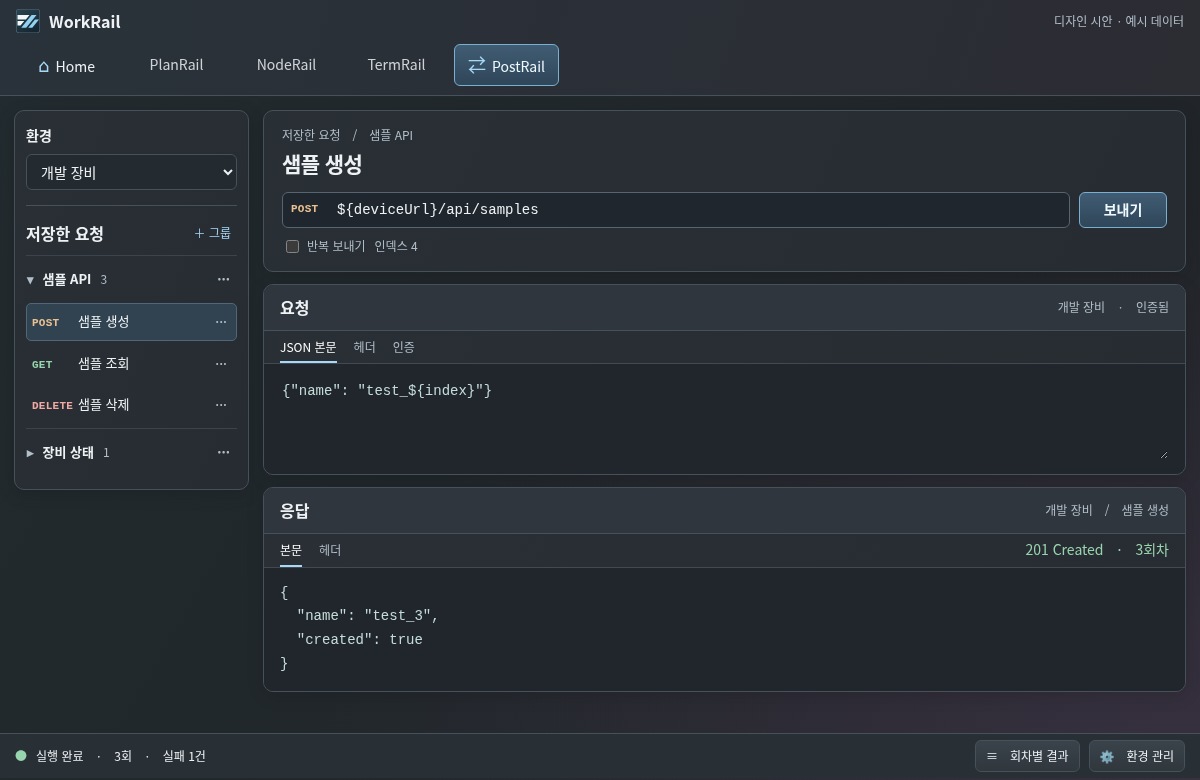
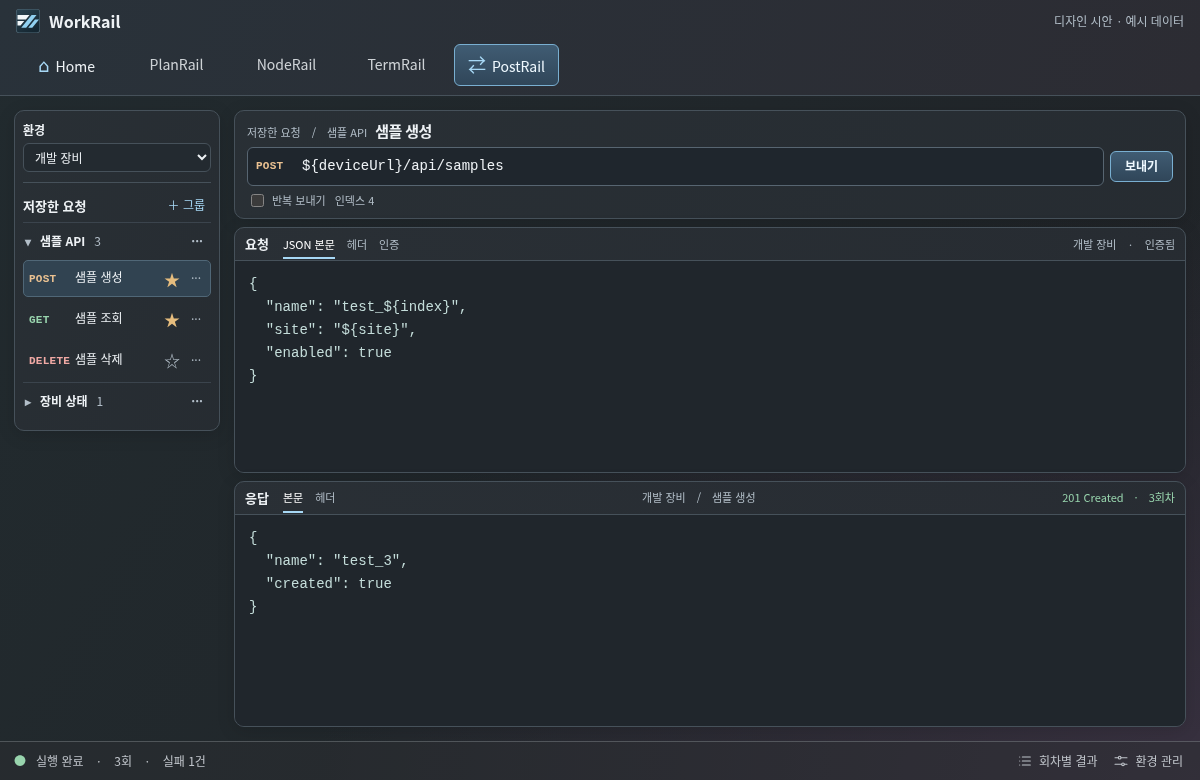
Refine PostRail editors and design Home favorite execution

diff --git a/docs/design/mockups/postrail-workspace.html b/docs/design/mockups/postrail-workspace.html
@@ -8,25 +8,72 @@
 :root{color-scheme:dark;font:14px/1.55 "Segoe UI","Noto Sans CJK KR",sans-serif;color:#eef2f5;--line:#46515a;--sub:#b2bec8;--sky:#a7d8f5;--green:#98d4ad;--amber:#eac191;--surface:linear-gradient(115deg,#2a3036ed,#272c32ed);--mono:Consolas,"Liberation Mono",monospace}
 *{box-sizing:border-box}body{margin:0;background:radial-gradient(ellipse at 100% 100%,#383140,transparent 52%),linear-gradient(120deg,#222b2f,#202327);min-height:100vh}button,input,select,textarea{font:inherit;color:inherit}button,select,input{border:1px solid var(--line);border-radius:6px;background:#232a30;padding:6px 10px}button,select{cursor:pointer}button{background:linear-gradient(#3a434b,#30373d)}button:hover{border-color:#788d9c}button:disabled{opacity:.55;cursor:default}button:focus-visible,summary:focus-visible,input:focus-visible,textarea:focus-visible,select:focus-visible{outline:2px solid var(--sky);outline-offset:2px}h1,h2,h3,p,pre{margin:0}h1{font-size:21px;letter-spacing:-.6px}h2{font-size:16px}h3{font-size:14px}small,.sub{color:var(--sub)}small{font-size:12px}[hidden]{display:none!important}.row,.brand,nav,.item,.folder summary,.title,.foot,.endpoint,.tabs,.meta,.tools{display:flex;align-items:center;gap:9px}.apart{justify-content:space-between}.auto{margin-left:auto}.brand{padding:9px 16px;font-size:16px;font-weight:700}.brand img{width:24px;height:24px}.demo{font-size:12px;color:var(--sub);font-weight:400}header{background:linear-gradient(110deg,#29323a,#2c2c33);border-bottom:1px solid var(--line)}nav{padding:1px 14px 9px;gap:5px;overflow:auto}nav button{border:1px solid transparent;background:none;min-width:105px;min-height:36px;white-space:nowrap}nav button:disabled{opacity:.84}nav button.active,.primary{background:linear-gradient(#405c73,#304659);border:1px solid #79afd1;color:#eff9ff}.mark{color:var(--sky);font-size:18px;padding-right:6px}main{padding:14px;max-width:1620px;margin:auto}#post{display:grid;grid-template-columns:235px minmax(0,1fr);gap:14px;min-height:calc(100vh - 143px)}aside,.panel,dialog{border:1px solid var(--line);border-radius:10px;background:var(--surface);box-shadow:0 4px 18px #0002}aside{align-self:start;padding:14px 11px}.env{width:100%;margin:8px 0 15px}.asidehead{border-top:1px solid var(--line);padding-top:14px;margin-bottom:8px}.ghost,.more{background:transparent;border-color:transparent;color:var(--sub);padding:3px 5px}.ghost{color:var(--sky);font-size:12px}.folder{border-top:1px solid #3b444d}.folder summary{padding:9px 1px;cursor:pointer;list-style:none;font-size:13px;font-weight:650}.folder summary:before{content:'▸';color:var(--sub)}.folder[open]>summary:before{content:'▾'}.folder summary small{font-weight:400}.item{padding:2px 3px;border:1px solid transparent;border-radius:5px;margin:1px 0 4px;gap:1px}.item.sel{background:#314351;border-color:#506777}.item button:first-child{flex:1;min-width:0;text-align:left;background:none;border:0;font-size:13px;padding:5px 2px;overflow-wrap:anywhere}.verb{display:inline-block;min-width:46px;font:700 11px/1.6 var(--mono);letter-spacing:.25px;color:var(--amber)}.get,.good{color:var(--green)}.delete,.bad{color:#f0a9a4}.workspace{display:flex;flex-direction:column;gap:12px;min-width:0}.panel{overflow:hidden}.compose,.pad{padding:15px 18px}.pathline{color:var(--sub);font-size:12px;margin-bottom:3px}.endpoint{margin:12px 0 9px}.url{min-width:0;flex:1;display:flex;align-items:center;padding:4px 8px;background:#1f262d;border:1px solid #576571;border-radius:6px}.url input{border:0;background:transparent;font:14px var(--mono);width:100%;padding:5px 0}.send{min-width:88px;font-weight:650}.tools,.meta{color:var(--sub);font-size:12px;flex-wrap:wrap}.tools label{display:inline-flex;align-items:center;gap:5px}.tools input[type=text]{width:92px;padding:3px 5px}.tools input[type=checkbox]{accent-color:#90c5e9}.title{border-bottom:1px solid var(--line);padding:10px 16px;background:#30363d}.tabs{gap:17px;padding:0 16px;border-bottom:1px solid #414a52}.tabs button{border:0;background:none;border-radius:0;padding:7px 0;color:var(--sub);font-size:12px}.tabs .active{box-shadow:inset 0 -2px var(--sky);color:#fff}.editor{background:#20262c;min-height:100px;padding:14px 16px}.editor textarea,pre{display:block;width:100%;font:14px/1.7 var(--mono);background:transparent;border:0;color:#c4ddda;resize:vertical;overflow-wrap:anywhere;white-space:pre-wrap}.editor textarea{min-height:82px}.pill{font:600 12px/1.55 "Segoe UI",sans-serif;padding:2px 8px;border:1px solid #466258;border-radius:4px;color:#b8dec6;background:#304139}.foot{position:sticky;bottom:0;z-index:2;padding:6px 15px;min-height:44px;background:#282f35;border-top:1px solid var(--line);font-size:12px}.foot button{font-size:12px}.logarea{max-height:180px;overflow:auto;background:#20262c;padding:10px 16px}.logline{display:block;width:100%;font:13px/1.7 var(--mono);text-align:left;white-space:pre-wrap;border:0;background:none;color:#b6c9d4}.logline[aria-pressed=true]{color:#e6f6ff;background:#354752}.home-grid{display:grid;grid-template-columns:repeat(6,minmax(0,1fr));gap:14px}.big{grid-column:span 3}.widget{grid-column:span 2}.cardhead{padding-bottom:15px}.listrow{display:flex;align-items:center;justify-content:space-between;gap:10px;border-top:1px solid #424a51;padding:10px 0;font-size:13px}.big .listrow{padding:13px 0}.cardbtn{width:100%;margin-top:9px}.date{color:var(--sub);font-size:13px;margin:2px 0 12px}.version{font-size:28px;font-weight:600;margin:10px 0}.widget h2,.big h2{font-size:16px}dialog{padding:0;width:min(520px,94vw);background:#292f35;color:#f2f4f6}dialog::backdrop{background:#11171ba8}.dialogbody{padding:16px 18px;max-height:70vh;overflow:auto}.formrow{display:grid;gap:5px;margin:8px 0}.formrow input,select{min-width:0}.dialogfoot{display:flex;justify-content:flex-end;gap:7px;border-top:1px solid var(--line);padding:11px 16px}.varrow{display:grid;grid-template-columns:1fr 1.2fr auto;gap:6px;margin:6px 0}.varrow input{min-width:0;width:100%}.danger{color:#f1aaa6}.note{color:var(--sub);font-size:12px;margin-top:8px}
 @media(max-width:800px){#post{grid-template-columns:185px minmax(0,1fr)}.widget{grid-column:span 3}}@media(max-width:620px){#post{grid-template-columns:1fr}aside{max-height:210px;overflow:auto}.big,.widget{grid-column:1/-1}.endpoint{flex-wrap:wrap}.url{flex-basis:100%}.foot{flex-wrap:wrap}.foot .sub{display:none}.varrow{grid-template-columns:1fr}.meta{gap:3px}nav button{min-width:90px}}
+
+/* PostRail uses the available window height for the two editors. */
+body{display:flex;flex-direction:column;min-height:100dvh}
+header{flex:none}
+#post{flex:1;width:100%;min-height:0;grid-template-columns:206px minmax(0,1fr)}
+#post .workspace{gap:8px}
+#post aside{padding:10px 8px;font-size:12px}
+#post .env{padding:4px 7px;margin:4px 0 10px}
+#post .asidehead{padding-top:9px;margin-bottom:3px}
+#post h2{font-size:13px}
+#post .folder summary{font-size:12px;padding:5px 2px}
+#post .item button:first-child{font-size:12px}
+#post .compose{padding:8px 12px}
+#post .request-heading{display:flex;align-items:baseline;gap:8px;flex-wrap:wrap}
+#post .pathline{font-size:11px;margin:0}
+#post h1{font-size:15px}
+#post .endpoint{gap:6px;margin:5px 0}
+#post .url{padding:2px 8px}
+#post .send{min-width:63px;font-size:12px;padding:5px 8px}
+#post .tools,#post .tools label{font-size:11px}
+.code-pane{flex:1 1 0;display:flex;flex-direction:column;min-height:164px}
+.pane-bar{display:flex;align-items:center;gap:14px;border-bottom:1px solid var(--line);padding:0 10px;min-height:33px}
+.pane-bar .tabs{padding:0;border:0;gap:12px}
+.pane-bar .tabs button{font-size:11px;padding:6px 0}
+.pane-bar small,.pane-bar #status{font-size:11px}
+.code-pane .editor{flex:1;display:flex;flex-direction:column;min-height:0;overflow:auto;padding:12px 14px}
+.code-pane .editor textarea{flex:1;min-height:90px;resize:none;padding:0}
+.code-pane .editor textarea,.code-pane pre,#url{font:14px/1.65 var(--mono)}
+.code-pane small{display:block}
+#home{width:100%;margin:0 auto}
+.star{background:none;border-color:transparent;font-size:16px;line-height:1;padding:3px;color:var(--sub)}
+.star[aria-pressed=true]{color:#e6bd7e}
+.favorite-row{display:flex;align-items:center;gap:6px;min-height:32px;border-bottom:1px solid #424a51;font-size:13px}
+.favorite-row .verb{min-width:43px}
+.favorite-row button{margin-left:auto;padding:2px 7px;font-size:12px}
+.favorite-row .repeat-home{margin-left:0;color:var(--sky);background:transparent;border-color:var(--line);font-size:11px}
+#favorites{max-height:170px;overflow:auto}
+.home-result{margin-top:8px;font-size:12px;color:var(--sub)}
+/* Match the PlanRail status shell and its dark glass theme. */
+.foot{flex:none;display:flex;align-items:center;flex-wrap:nowrap;gap:10px;min-height:39px;padding:4px 14px;border-top:1px solid var(--rim);background:var(--glass);color:var(--muted);font-size:12px;--rim:#b4bfc449;--glass:rgba(43,46,49,.5);--muted:#c0c5cb}
+.foot button{display:inline-flex;align-items:center;gap:6px;flex:none;font-size:inherit;color:inherit;padding:2px 3px;border:0;background:transparent}
+.foot button:hover,.foot button[aria-expanded=true]{color:var(--sky)}
+.foot svg{width:16px;height:16px;fill:none;stroke:currentColor;stroke-width:1.6;stroke-linecap:round;stroke-linejoin:round}
+#footStatus{white-space:nowrap;overflow:hidden;text-overflow:ellipsis}
+@media(min-width:621px){body:has(#post:not([hidden])){height:100dvh}#post{overflow:auto}.workspace:has(#drawer:not([hidden])){min-height:520px}}
+@media(max-width:620px){#post{grid-template-columns:1fr}.code-pane{min-height:195px}.pane-bar{flex-wrap:wrap;gap:4px 9px}.foot{margin-top:auto}}
+@media(max-width:510px){.foot{gap:6px}}
 </style>
[1 lines of base64/hex data omitted]
 <main id="post">
 <aside><label for="env"><strong>환경</strong></label><select class="env" id="env"><option>개발 장비</option><option>QA 장비</option></select>
 <div class="row apart asidehead"><h2>저장한 요청</h2><button id="newGroup" class="ghost">＋ 그룹</button></div><div id="tree"></div></aside>
 <section class="workspace">
-<div class="panel compose"><div class="pathline" id="crumb"></div><h1 id="reqName"></h1><div class="endpoint"><div class="url"><b id="method" class="verb"></b><input id="url" aria-label="요청 URL"></div><button class="primary send" id="send">보내기</button></div>
-<div class="tools"><label id="repeatControl"><input type="checkbox" id="repeat">반복 보내기</label><label id="countControl" hidden>횟수 <input type="text" inputmode="numeric" id="count" value="10"></label><span id="range"></span></div></div>
-<div class="panel"><div class="title"><h2>요청</h2><small id="auth" class="auto"></small></div><div id="reqTabs" class="tabs"><button data-tab="0" class="active">JSON 본문</button><button data-tab="1">헤더</button><button data-tab="2">인증</button></div><div class="editor" id="reqContent"></div></div>
-<div class="panel"><div class="title"><h2>응답</h2><small class="auto" id="responseOwner"></small></div><div class="tabs"><button id="bodyTab" class="active">본문</button><button id="hdrTab">헤더</button><span id="status" class="auto good"></span></div><div class="editor"><pre id="response"></pre></div></div>
+<div class="panel compose"><div class="request-heading"><span class="pathline" id="crumb"></span><h1 id="reqName"></h1></div><div class="endpoint"><div class="url"><b id="method" class="verb"></b><input id="url" aria-label="요청 URL"></div><button class="primary send" id="send">보내기</button></div>
+<div class="tools"><label id="repeatControl"><input type="checkbox" id="repeat">반복 보내기</label><label id="countControl" hidden>횟수 <input type="text" inputmode="numeric" id="count" value="10"></label><span id="range"></span><button id="saveEdits" class="ghost auto" hidden>변경 저장</button></div></div>
+<div class="panel code-pane"><div class="pane-bar"><h2>요청</h2><div id="reqTabs" class="tabs"><button data-tab="0" class="active">JSON 본문</button><button data-tab="1">헤더</button><button data-tab="2">인증</button></div><small id="auth" class="auto"></small></div><div class="editor" id="reqContent"></div></div>
+<div class="panel code-pane"><div class="pane-bar"><h2>응답</h2><div class="tabs"><button id="bodyTab" class="active">본문</button><button id="hdrTab">헤더</button></div><small class="auto" id="responseOwner"></small><span id="status" class="good"></span></div><div class="editor"><pre id="response"></pre></div></div>
 <section id="drawer" class="panel" hidden><div class="title"><h2>회차별 결과</h2><small id="pageNumber" class="auto"></small><button id="prev" class="ghost">이전</button><button id="next" class="ghost">다음</button><button id="closeLog" aria-label="결과 닫기" class="more">×</button></div><div class="logarea" id="log"></div></section>
 </section></main>
-<footer class="foot" id="footer"><span class="good">●</span><span id="footStatus"></span><button id="toggleLog" class="auto" aria-expanded="false">≡　회차별 결과</button><button id="manage">⚙　환경 관리</button></footer>
+<footer class="foot" id="footer"><span class="good">●</span><span id="footStatus"></span><button id="toggleLog" class="auto" aria-expanded="false"><svg aria-hidden="true" viewBox="0 0 24 24"><path d="M8 6h12M8 12h12M8 18h12M4 6h.1M4 12h.1M4 18h.1"/></svg>회차별 결과</button><button id="manage"><svg aria-hidden="true" viewBox="0 0 24 24"><path d="M3 7h5m4 0h9M3 17h10m4 0h4"/><circle cx="10" cy="7" r="2"/><circle cx="15" cy="17" r="2"/></svg>환경 관리</button></footer>
 <main id="home" hidden><div class="date">2026년 11월 20일 금요일</div><div class="home-grid">
 <section class="big panel pad"><h2 class="cardhead">오늘의 일정</h2><div class="listrow"><b>장비 API 연동 점검</b><small>공유　·　오늘 마감</small></div><div class="listrow">배포 전 환경 확인<small>개인　·　2일 남음</small></div></section>
 <section class="big panel pad"><h2>내 개발 환경</h2><p class="version">v24.22.3</p><p class="sub">Windows　·　NVM 1.1.11</p></section>
 <section class="widget panel pad"><h2 class="cardhead">PlanRail 상태</h2><div class="listrow">공유 상태<span class="good">공유 제공 중</span></div><div class="listrow">연결 참여자<b>2명</b></div></section>
 <section class="widget panel pad"><h2 class="cardhead">Node 작업</h2><div class="listrow">24.22.3<span class="pill">사용 중</span></div><div class="listrow">22.16.0<small>설치됨</small></div></section>
-<section class="widget panel pad"><div class="row apart cardhead"><h2>PostRail</h2><span class="mark">⇄</span></div><div class="listrow"><span id="homeEnv"></span><small id="homeAuth"></small></div><div class="listrow"><span id="homeLast"></span><small id="homeCode"></small></div><button class="cardbtn primary" id="openPost">PostRail 열기　→</button></section></div></main>
+<section class="widget panel pad"><div class="row apart cardhead"><h2>PostRail 즐겨찾기</h2><span class="mark" aria-hidden="true">⇄</span></div><div class="listrow"><span id="homeEnv"></span><small id="homeAuth"></small></div><div id="favorites"></div><p class="home-result" role="status"><span id="homeLast"></span> <span id="homeCode"></span></p><button class="cardbtn primary" id="openPost">PostRail 열기　→</button></section></div></main>
 <dialog id="dialog"><div class="title"><h2 id="dialogTitle"></h2><button class="more auto" id="closeDialog" aria-label="닫기">×</button></div><div id="dialogBody" class="dialogbody"></div><div id="actions" class="dialogfoot"></div></dialog>
 <script>
 const $ = id => document.getElementById(id);
@@ -34,10 +81,18 @@ const group = (name,open=true) => ({name,open});
 const loose = group('미분류');
 let groups = [group('샘플 API'),group('장비 상태',false),loose];
 function request(name,method,path,folder) {
-  return {name,method,url:'${deviceUrl}'+path,folder,index:1n,body:method==='POST'?'{"name": "test_${index}"}':''};
+  return {name,method,url:'${deviceUrl}'+path,folder,index:1n,body:method==='POST'?JSON.stringify({name:'test_${index}',site:'${site}',enabled:true},null,2):''};
 }
 let requests = [request('샘플 생성','POST','/api/samples',groups[0]),request('샘플 조회','GET','/api/samples',groups[0]),request('샘플 삭제','DELETE','/api/samples/42',groups[0]),request('상태 확인','GET','/health',groups[1])];
+requests[0].favorite=true;requests[1].favorite=true;
 let current = requests[0], requestTab=0, responseHeaders=false;
+const drafts=new WeakMap();
+function values(r){return drafts.get(r)??r}
+function edit(key,value){
+  const draft={url:values(current).url,body:values(current).body,[key]:value};
+  if(draft.url===current.url&&draft.body===current.body)drafts.delete(current);else drafts.set(current,draft);
+  range();
+}
 const environments = new Map(['개발 장비','QA 장비'].map((name,i)=>[name,{
   vars:[['deviceUrl',i?'https://qa.example.test':'https://dev.example.test'],['site',i?'qa':'dev']],
   api:i?'https://qa.example.test':'https://dev.example.test',logged:i===0
@@ -93,7 +148,7 @@ function requestEditor(r) {
   let name,url,select;
   modal('저장한 요청 수정',()=>{
     if(!nonempty(name)||!nonempty(url))return;
-    r.name=name.value.trim();r.url=url.value.trim();r.folder=groups[Number(select.value)];r.folder.open=true;
+    r.name=name.value.trim();r.url=url.value.trim();if(drafts.has(r))drafts.get(r).url=r.url;r.folder=groups[Number(select.value)];r.folder.open=true;
     $('dialog').close();draw();
   });
   name=field('요청 이름',r.name);url=field('URL',r.url);
@@ -120,7 +175,13 @@ function tree() {
       const item=node('div',undefined,'item'+(current===r?' sel':''));
       const chooseBtn=button('',()=>choose(r));chooseBtn.append(node('span',r.method,'verb '+r.method.toLowerCase()),document.createTextNode(r.name));
       const edit=button('···',()=>requestEditor(r),'more');edit.setAttribute('aria-label',r.name+' 요청 수정');
-      item.append(chooseBtn,edit);details.append(item);
+      const star=button(r.favorite?'★':'☆',()=>{
+        r.favorite=!r.favorite;
+        star.textContent=r.favorite?'★':'☆';
+        star.setAttribute('aria-pressed',String(r.favorite));favorites();
+      },'star');
+      star.setAttribute('aria-label',r.name+' 즐겨찾기');star.setAttribute('aria-pressed',String(!!r.favorite));
+      item.append(chooseBtn,star,edit);details.append(item);
     });
     $('tree').append(details);
   });
@@ -152,24 +213,58 @@ function count() {
   if(current?.method!=='POST'||!$('repeat').checked)return 1n;
   const raw=$('count').value.trim();return /^\d+$/.test(raw)?BigInt(raw):0n;
 }
-function indexUsed(){return current?.method==='POST'&&current.body.includes('${index}')}
+function indexUsed(r,body){return r?.method==='POST'&&body.includes('${index}')}
 function range(){
   $('countControl').hidden=!current||current.method!=='POST'||!$('repeat').checked;
+  $('saveEdits').hidden=!current||!drafts.has(current);
   const n=count();$('send').disabled=!current||n<1n;
   $('send').textContent=!$('countControl').hidden&&n>0n?n+'회 보내기':'보내기';
-  $('range').textContent=!current?'':!n?'횟수는 양의 정수로 입력하세요.':indexUsed()?'인덱스 '+current.index+(n>1n?' – '+(current.index+n-1n):''):n>1n?'같은 요청을 반복합니다.':'';
+  $('range').textContent=!current?'':!n?'횟수는 양의 정수로 입력하세요.':indexUsed(current,values(current).body)?'인덱스 '+current.index+(n>1n?' – '+(current.index+n-1n):''):n>1n?'같은 요청을 반복합니다.':'';
 }
 function requestPane() {
   const panel=$('reqContent');panel.replaceChildren();
   [...$('reqTabs').children].forEach((b,i)=>{b.classList.toggle('active',i===requestTab);b.disabled=!current||(i===0&&current.method==='GET')});
   if(!current)return;
-  if(requestTab===0){const t=node('textarea');t.setAttribute('aria-label','JSON 요청 본문');t.value=current.body;t.oninput=()=>{current.body=t.value;range()};panel.append(t)}
+  if(requestTab===0){const t=node('textarea');t.setAttribute('aria-label','JSON 요청 본문');t.value=values(current).body;t.oninput=()=>edit('body',t.value);panel.append(t)}
   if(requestTab===1)panel.append(node('pre','Accept: application/json'));
   if(requestTab===2)panel.append(node('p','환경 로그인 사용'),node('small','같은 환경·계정에서 발급받은 유효한 토큰을 헤더에 사용합니다.'));
 }
 function code(n) {
   if(run.example&&n===2n)return '409 Conflict';
   return run.method==='POST'?'201 Created':run.method==='GET'?'200 OK':'204 No Content';
+}
+function homeRepeat(r) {
+  const target=$('env').value;
+  modal('반복 보내기',()=>{
+    const n=amount();
+    if(n===0n)return;
+    $('dialog').close();sendRequest(r,n);
+  },'보내기');
+  $('dialogBody').append(node('p',target+'　·　'+r.method+'　'+r.name));
+  const input=field('횟수','1');input.inputMode='numeric';
+  const summary=node('p','','note');$('dialogBody').append(summary);
+  function amount(){const raw=input.value.trim();return /^\d+$/.test(raw)?BigInt(raw):0n}
+  function update(){
+    const n=amount();
+    const submit=$('actions').lastElementChild;submit.disabled=n===0n;
+    submit.textContent=n?n+'회 보내기':'보내기';
+    summary.textContent=!n?'횟수는 양의 정수로 입력하세요.':indexUsed(r,r.body)?'인덱스 '+r.index+' – '+(r.index+n-1n):'같은 요청을 '+n+'회 전송합니다.';
+  }
+  input.oninput=update;update();input.select();
+}
+function favorites() {
+  const list=$('favorites');list.replaceChildren();
+  for(const r of requests.filter(r=>r.favorite)){
+    const row=node('div',undefined,'favorite-row');
+    const play=button('▷ 실행',()=>sendRequest(r,1n));play.setAttribute('aria-label',r.name+' 즉시 실행');
+    row.append(node('b',r.method,'verb '+r.method.toLowerCase()),node('span',r.name),play);
+    if(r.method==='POST'){
+      const repeat=button('반복…',()=>homeRepeat(r),'repeat-home');
+      repeat.setAttribute('aria-label',r.name+' 반복 보내기');row.append(repeat);
+    }
+    list.append(row);
+  }
+  if(!list.children.length)list.append(node('p','저장한 요청에 ☆를 누르면 여기에 표시됩니다.','note'));
 }
 function results() {
   const status=code(selected);
@@ -189,22 +284,22 @@ function results() {
   }
   $('footStatus').textContent='실행 완료　·　'+run.count+'회'+(run.example?'　·　실패 1건':'');
   $('homeEnv').textContent=$('env').value;$('homeAuth').textContent=env().logged?'인증됨':'로그인 필요';
-  $('homeLast').textContent=run.name;$('homeCode').textContent=run.env+' · '+(run.example?'2 성공 / 1 실패':code(run.count));
+  favorites();$('homeLast').textContent='최근 실행 · '+run.name;$('homeCode').textContent=run.env+' · '+(run.example?'2 성공 / 1 실패':run.count+'회 · '+code(run.count));
 }
 function draw(){
   tree();$('reqName').textContent=current?.name??'저장한 요청 없음';$('method').textContent=current?.method??'';
-  $('method').className='verb '+(current?.method??'').toLowerCase();$('url').value=current?.url??'';$('url').disabled=!current;
+  $('method').className='verb '+(current?.method??'').toLowerCase();$('url').value=current?values(current).url:'';$('url').disabled=!current;
   $('auth').textContent=$('env').value+'　·　'+(env().logged?'인증됨':'로그인 필요');
   $('repeatControl').hidden=current?.method!=='POST';range();requestPane();results();
 }
-function send(){
-  if(!current||count()<1n)return;
-  const expanded=current.url.replaceAll(/\$\{([^}]+)\}/g,(original,key)=>env().vars.find(([k])=>k===key)?.[1]??original);
+function sendRequest(r,n,input=r){
+  if(!r||n<1n)return;
+  const expanded=input.url.replaceAll(/\$\{([^}]+)\}/g,(original,key)=>env().vars.find(([k])=>k===key)?.[1]??original);
   let ok=false;try{ok=new URL(expanded).origin===env().api&&!expanded.includes('${')}catch{}
   if(!ok){modal('요청 주소 확인');$('dialogBody').textContent='환경 변수와 토큰을 받을 API 주소를 확인하세요. 본 요청을 보내지 않았습니다.';return}
   // A change of environment never transfers the previous environment's login state.
-  env().logged=true;run={name:current.name,env:$('env').value,method:current.method,count:count(),start:current.index,indexed:indexUsed(),example:false};
-  if(run.indexed)current.index+=run.count;
+  env().logged=true;run={name:r.name,env:$('env').value,method:r.method,count:n,start:r.index,indexed:indexUsed(r,input.body),example:false};
+  if(run.indexed)r.index+=run.count;
   selected=run.count;page=(selected-1n)/5n;responseHeaders=false;draw();
 }
 function drawer(show){$('drawer').hidden=!show;$('toggleLog').setAttribute('aria-expanded',String(show));if(show)$('drawer').scrollIntoView({block:'nearest'})}
@@ -212,7 +307,8 @@ function showHome(home){
   $('home').hidden=!home;$('post').hidden=home;$('footer').hidden=home;$('postTab').classList.toggle('active',!home);$('homeTab').classList.toggle('active',home);window.scrollTo(0,0);
 }
 $('env').onchange=draw;$('newGroup').onclick=()=>groupEditor();$('manage').onclick=manage;$('closeDialog').onclick=()=>$('dialog').close();
-$('url').oninput=e=>{if(current)current.url=e.target.value};$('repeat').onchange=range;$('count').oninput=range;$('send').onclick=send;
+$('saveEdits').onclick=()=>{Object.assign(current,drafts.get(current));drafts.delete(current);draw()};
+$('url').oninput=e=>{if(current)edit('url',e.target.value)};$('repeat').onchange=range;$('count').oninput=range;$('send').onclick=()=>sendRequest(current,count(),values(current));
 $('reqTabs').onclick=e=>{if(e.target.dataset.tab!==undefined){requestTab=Number(e.target.dataset.tab);requestPane()}};
 $('bodyTab').onclick=()=>{responseHeaders=false;results()};$('hdrTab').onclick=()=>{responseHeaders=true;results()};
 $('toggleLog').onclick=()=>drawer($('drawer').hidden);$('closeLog').onclick=()=>drawer(false);

diff --git a/docs/design/postrail-workspace.md b/docs/design/postrail-workspace.md
@@ -9,6 +9,12 @@
 3. URL 아래의 전체 가로 공간에서 요청 헤더·본문·인증을 편집한다. 응답은 바로 아래에서 본문·헤더를 전환한다. 응답 상단에는 실제 실행한 요청명·환경·선택된 회차를 표시해 편집기의 현재 환경과 구별한다.
 4. PlanRail처럼 페이지 하단에 상태 바를 둔다. 왼쪽에는 실행 상태와 건수, 오른쪽 끝에는 **환경 관리**, 그 왼쪽에는 **회차별 결과**가 있다. 결과 목록은 기본으로 접는다. 열면 읽기 전용 로그 형태에서 회차를 선택해 위 응답을 전환한다. 긴 실행은 나누어 불러온다. 닫아도 실행과 선택 응답을 유지한다. 실패나 서버 반영 여부가 불명확한 회차 수는 닫힌 상태에서도 알 수 있게 한다.
 
+### 편집 공간과 하단 상태 바
+
+URL, 요청 본문과 응답 본문은 14px 고정폭을 사용한다. PostRail 페이지 안에서만 탐색·옵션 문자를 11~13px로 줄이고 각 영역의 제목과 탭을 한 줄에 둔다. 요청과 응답 코드 영역이 남은 세로 공간을 나눠 사용한다. 1200×780 시안에서 URL 입력 너비는 724px에서 793px, 요청·응답 코드 영역 높이는 각각 110px·123px에서 약 211px로 늘어났다. 좁은 창에서는 제목 줄이 줄바꿈되고 코드 영역은 스크롤할 수 있다.
+
+하단 상태 바는 PlanRail과 같은 외곽 스타일을 공유하도록 설계한다. 최소 높이 39px, 상하 4px·좌우 14px 여백, 간격 10px(510px 이하 6px), 12px 글자, 1px 상단 선과 같은 유리 배경이다. 우측 ‘회차별 결과’와 ‘환경 관리’는 아이콘과 글자를 한 줄에 두며, 긴 상태는 말줄임한다. [PlanRail 상태 바 CSS](../../src/renderer/workrail/status.css) · [테마 색상](../../src/renderer/forest-crystal.css)
+
 ![PostRail 작업 화면](mockups/postrail-editor.png)
 
 ## 변수는 어디에서 추가하는가
@@ -26,7 +32,13 @@
 
 ## Home에서 이어가기
 
-기존 ‘오늘의 일정’·‘내 개발 환경’ 아래의 작은 위젯 줄에 **PostRail**을 추가한다. 첫 줄에는 현재 환경과 인증 상태, 둘째 줄에는 현재 또는 마지막으로 실행한 요청명과 실행 당시 환경·진행 건수 또는 결과 요약을 표시한다. 현재 환경과 실행 당시 환경이 다를 수 있다. 진행 중·인증 필요·실행 내역 없음도 각 줄의 값으로 표현한다. ‘PostRail 열기’를 눌러 상세 화면으로 이동한다. Home에서 요청을 바로 발송하거나 토큰·응답 본문을 표시하지 않는다.
+저장한 요청 옆의 **☆**를 누르면 **★**가 되고 Home의 **PostRail 즐겨찾기** 위젯에 같은 요청이 나타난다. 별표는 저장 요청의 속성이다. 이름이나 그룹을 바꿔도 유지하고, 해제하거나 요청을 삭제하면 위젯에도 즉시 반영한다. 그룹만 삭제해 미분류로 이동한 요청의 별표는 유지한다.
+
+위젯 상단에는 대상 환경과 인증 상태를, 각 행에는 HTTP 메서드·요청 이름·**실행** 버튼을 표시한다. 실행하면 Home에 머물며 최근 실행 요약을 본다. **PostRail 열기**로 회차별 결과·응답을 확인한다. 즐겨찾기가 없으면 별표 등록 위치를 안내한다. 목록은 위젯 안에서 스크롤한다.
+
+- **확정한 실행 기준**. 위젯에 표시된 현재 PostRail 환경으로 보낸다. 모든 즐겨찾기의 ‘실행’은 단건이다. POST에는 ‘반복…’을 함께 두어 Home에서도 횟수를 명시할 수 있다. 펼치면 요청명·환경·횟수·인덱스 범위를 확인하고 ‘N회 보내기’를 누른다. 각 번의 기본값은 1이며 취소하면 발송하지 않는다. GET·DELETE는 단건만 보낸다. 편집 중인 URL·본문·반복 횟수는 가져오지 않는다. 인덱스가 있으면 두 화면에서 같은 다음 번호를 쓰고 기존 순차 발송·중지 규칙을 따른다.
+- **공통 실행 규칙**. Home과 PostRail이 인증 상태, 요청별 다음 번호, 현재 또는 마지막 실행 결과를 공유한다. 이미 전송 중이면 양쪽 모두 새 실행을 시작할 수 없다. 필수 값 누락·인증 실패는 Home에서 원인을 알리고 편집기로 연결한다. 실제 HTTP 대상과 평문 경고가 필요한 요청은 기존 Q9처럼 전송 전에 해당 주소를 보여 준다.
+- **확인 예시**. POST 반복을 7회로 둔 채 Home을 열고 같은 요청의 ‘실행’을 누른다. 1회 결과가 나온다. Home에서 별도로 ‘반복…’에 3을 입력해 보내면 다음 번호부터 3건이 실행되고 PostRail 편집기의 7회 설정은 그대로다. 편집 중인 URL이 달라도 즐겨찾기는 저장된 URL을 사용한다.
 
 ![Home의 PostRail 위젯](mockups/postrail-home.png)
 

diff --git a/docs/wayfinder/STATUS.md b/docs/wayfinder/STATUS.md
@@ -1,5 +1,7 @@
 # 진행 상태
 
+2026-11-20 PostRail 화면을 코드 편집 중심으로 조정하고 PlanRail과 같은 하단 상태 바 및 Home 즐겨찾기 즉시 실행을 [후속 설계와 시안](../design/postrail-workspace.md)에 반영했다. Home에서는 현재 환경으로 실행하며 POST는 기본 단건 및 명시적 반복 실행을 모두 지원하는 설계로 합의했다. 제품 구현 전이다.
+
 2026-11-20 PostRail 후속 설계 검토. 저장 요청 그룹, 기본 단건 보내기, 환경 관리·회차 결과 footer, 요청 아래 응답, Home 위젯과 환경별 토큰 재사용을 [설계 및 시안](../design/postrail-workspace.md)에 반영했다. 제품 구현 전이다.
 
 2026-11-20 PostRail Q1~Q12 재검토 후 트레이 숨김·앱 종료, 환경별 토큰 수신 API 주소, 요청별 응답 대기 시간 정책을 추가 확정했다. 현재 단계는 설계 승인 및 인터랙티브 시안 검토이며 제품 구현 전이다. [재검토 기록 및 시안](../design/postrail-review.md)

diff --git a/CONTEXT.md b/CONTEXT.md
@@ -8,6 +8,10 @@
 
 이름을 붙여 같은 입력으로 다시 열 수 있는 REST 요청. 반복에 쓰는 다음 인덱스는 이 요청에 속하며 선택한 환경을 바꿔도 이어진다.
 
+## PostRail 즐겨찾기 / Favorite Request
+
+저장한 요청에 별표를 붙여 Home에서 바로 실행할 수 있게 한 항목. 원래 요청의 이름·그룹이 바뀌어도 같은 요청을 가리키며 다음 인덱스도 공유한다.
+
 ## PostRail 실행과 회차 / Run and Iteration
 
 보내기 한 번으로 시작하는 작업이 실행이다. 실행 전 인증은 실행에 속하며, 각각의 본 요청 전송 시도는 회차에 속한다.
